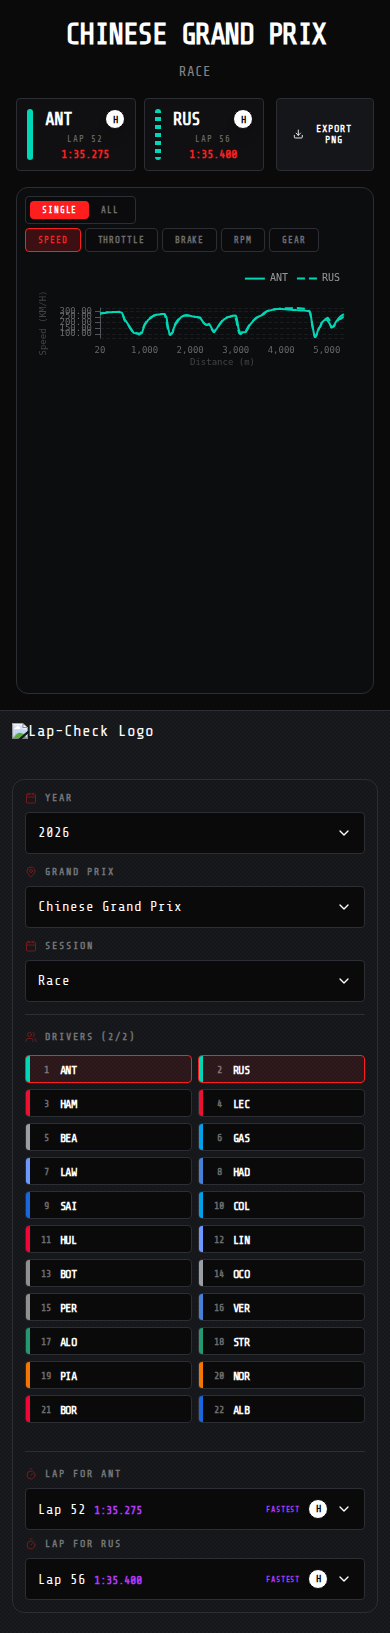
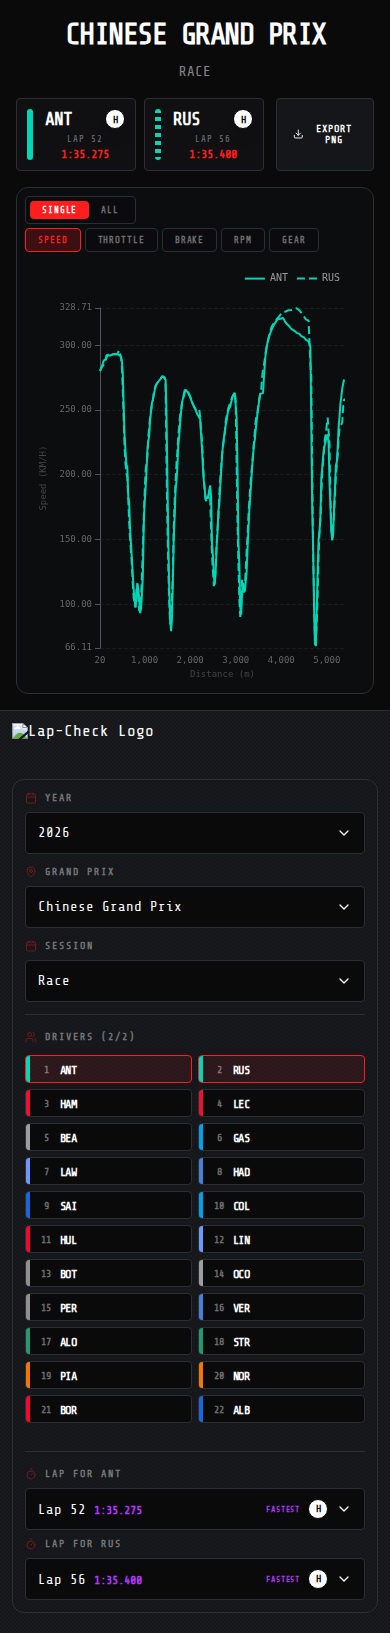
Fix chart height in mobile view
Ensured that TelemetryChart takes up all available remaining height
within its flex container in both single and all metric views on mobile.

diff --git a/test_flex.html b/test_flex.html
@@ -1,0 +1,22 @@
+<!DOCTYPE html>
+<html lang="en">
+<head>
+  <style>
+    body { margin: 0; background: #222; color: #fff; height: 100vh; display: flex; flex-direction: column; }
+    .container { flex: 1; min-height: 60vh; border: 1px solid red; display: flex; flex-direction: column; }
+    .inner { flex: 1; flex-direction: column; display: flex; min-height: 0; border: 1px solid blue; }
+    .chart-wrapper { flex: 1; width: 100%; min-height: 0; border: 1px solid green; }
+    .chart { height: 100%; width: 100%; background: rgba(0,255,0,0.2); }
+  </style>
+</head>
+<body>
+  <div style="height: 200px; border: 1px solid yellow;">Header</div>
+  <div class="container">
+    <div class="inner">
+      <div class="chart-wrapper" style="height: 100%;">
+        <div class="chart">Chart Area</div>
+      </div>
+    </div>
+  </div>
+</body>
+</html>

diff --git a/src/App.tsx b/src/App.tsx
@@ -306,8 +306,8 @@ const TelemetryChart = React.memo(function TelemetryChart({
   };
 
   return (
-    <div style={{ height: typeof height === 'number' ? `${height}px` : height, width: '100%' }}>
-      <ReactECharts option={option} style={{ height: '100%', width: '100%' }} group="telemetryGroup" opts={{ renderer: 'canvas' }} notMerge={true} />
+    <div className="flex-1 w-full min-h-0 flex flex-col" style={{ height: typeof height === 'number' ? `${height}px` : height, width: '100%' }}>
+      <ReactECharts option={option} style={{ height: '100%', width: '100%', flex: 1 }} className="flex-1" group="telemetryGroup" opts={{ renderer: 'canvas' }} notMerge={true} />
     </div>
   );
 }, (prevProps, nextProps) => {

diff --git a/verify_frontend_all.py b/verify_frontend_all.py
@@ -1,28 +1,13 @@
 from playwright.sync_api import sync_playwright
 import time
 
-def verify():
-    with sync_playwright() as p:
-        browser = p.chromium.launch()
-        # iPhone 12 Pro dimensions
-        context = browser.new_context(
-            viewport={'width': 390, 'height': 844},
-            user_agent='Mozilla/5.0 (iPhone; CPU iPhone OS 14_6 like Mac OS X) AppleWebKit/605.1.15 (KHTML, like Gecko) Version/14.0.3 Mobile/15E148 Safari/604.1'
-        )
-        page = context.new_page()
-        page.goto('http://localhost:3000')
-
-        # Wait for data to load
-        page.wait_for_selector('text=Chinese Grand Prix', timeout=60000)
-        page.wait_for_selector('text=SPEED', timeout=60000)
-
-        # Click the 'ALL' button
-        page.click('text=ALL')
-
-        time.sleep(3) # Wait for animation/render
-
-        page.screenshot(path='mobile_view_all.png', full_page=True)
-        browser.close()
-
-if __name__ == '__main__':
-    verify()
+with sync_playwright() as p:
+    browser = p.chromium.launch()
+    # iPhone 12 Pro size (390 x 844)
+    page = browser.new_page(viewport={"width": 390, "height": 844})
+    page.goto('http://localhost:3000')
+    time.sleep(10)
+    page.click("button:has-text('All')")
+    time.sleep(3)
+    page.screenshot(path='mobile_view_all.png', full_page=True)
+    browser.close()

diff --git a/verify_frontend_desktop.py b/verify_frontend_desktop.py
@@ -1,24 +1,11 @@
 from playwright.sync_api import sync_playwright
 import time
 
-def verify():
-    with sync_playwright() as p:
-        browser = p.chromium.launch()
-        # Desktop dimensions
-        context = browser.new_context(
-            viewport={'width': 1920, 'height': 1080}
-        )
-        page = context.new_page()
-        page.goto('http://localhost:3000')
-
-        # Wait for data to load
-        page.wait_for_selector('text=Chinese Grand Prix', timeout=60000)
-        page.wait_for_selector('text=SPEED', timeout=60000)
-
-        time.sleep(3) # Wait for animation/render
-
-        page.screenshot(path='desktop_view.png', full_page=True)
-        browser.close()
-
-if __name__ == '__main__':
-    verify()
+with sync_playwright() as p:
+    browser = p.chromium.launch()
+    # Desktop size
+    page = browser.new_page(viewport={"width": 1440, "height": 900})
+    page.goto('http://localhost:3000')
+    time.sleep(10)
+    page.screenshot(path='desktop_view.png')
+    browser.close()
